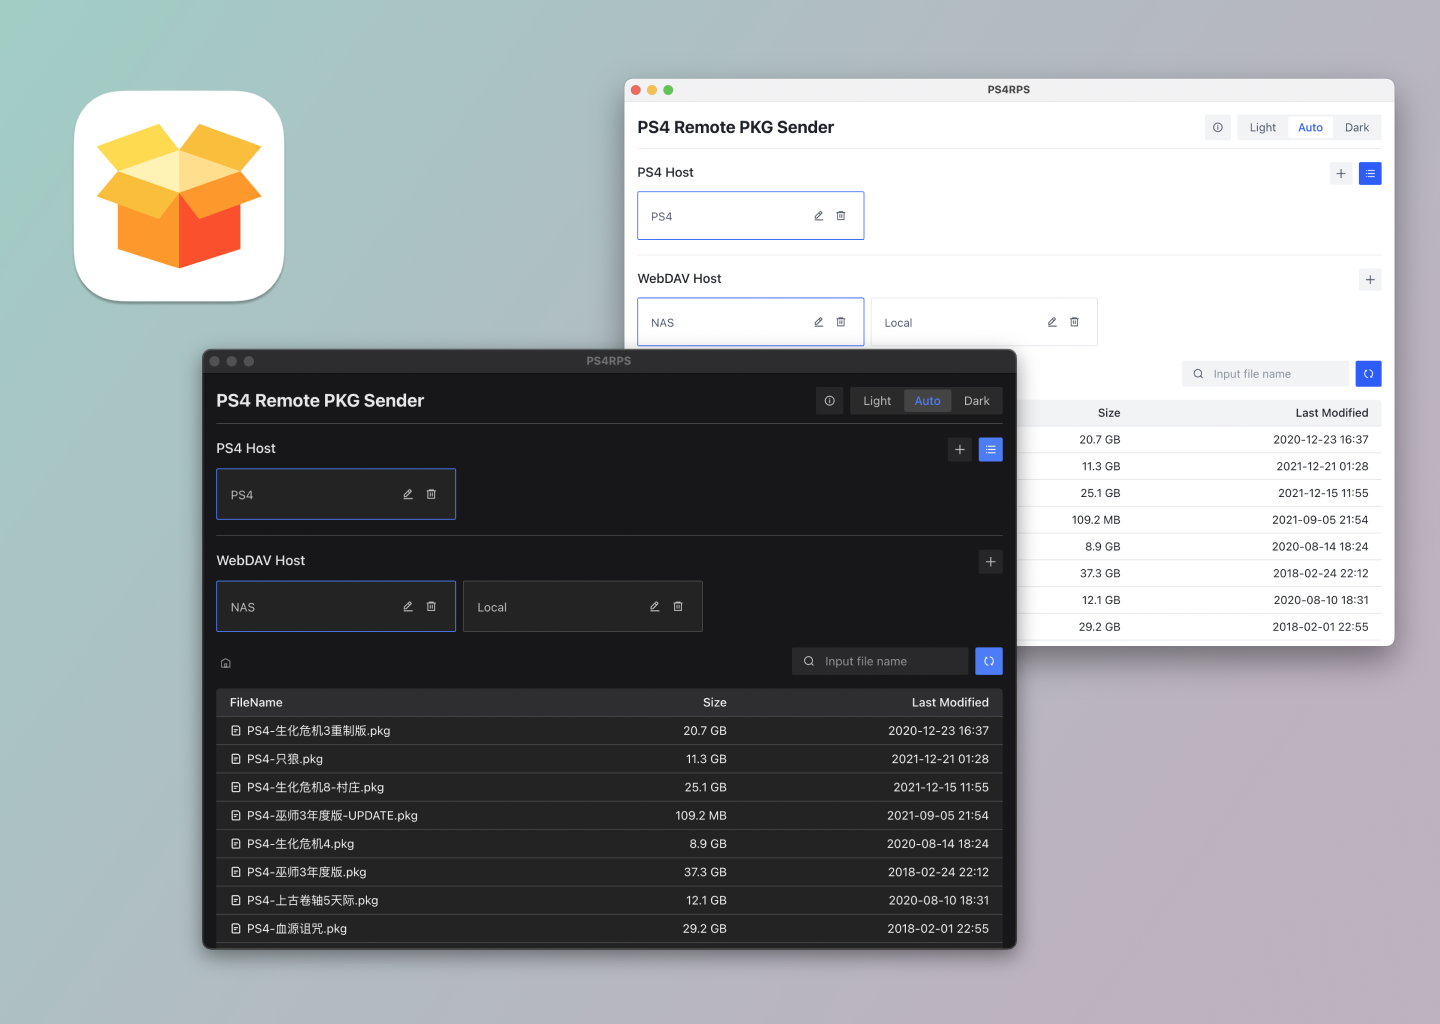
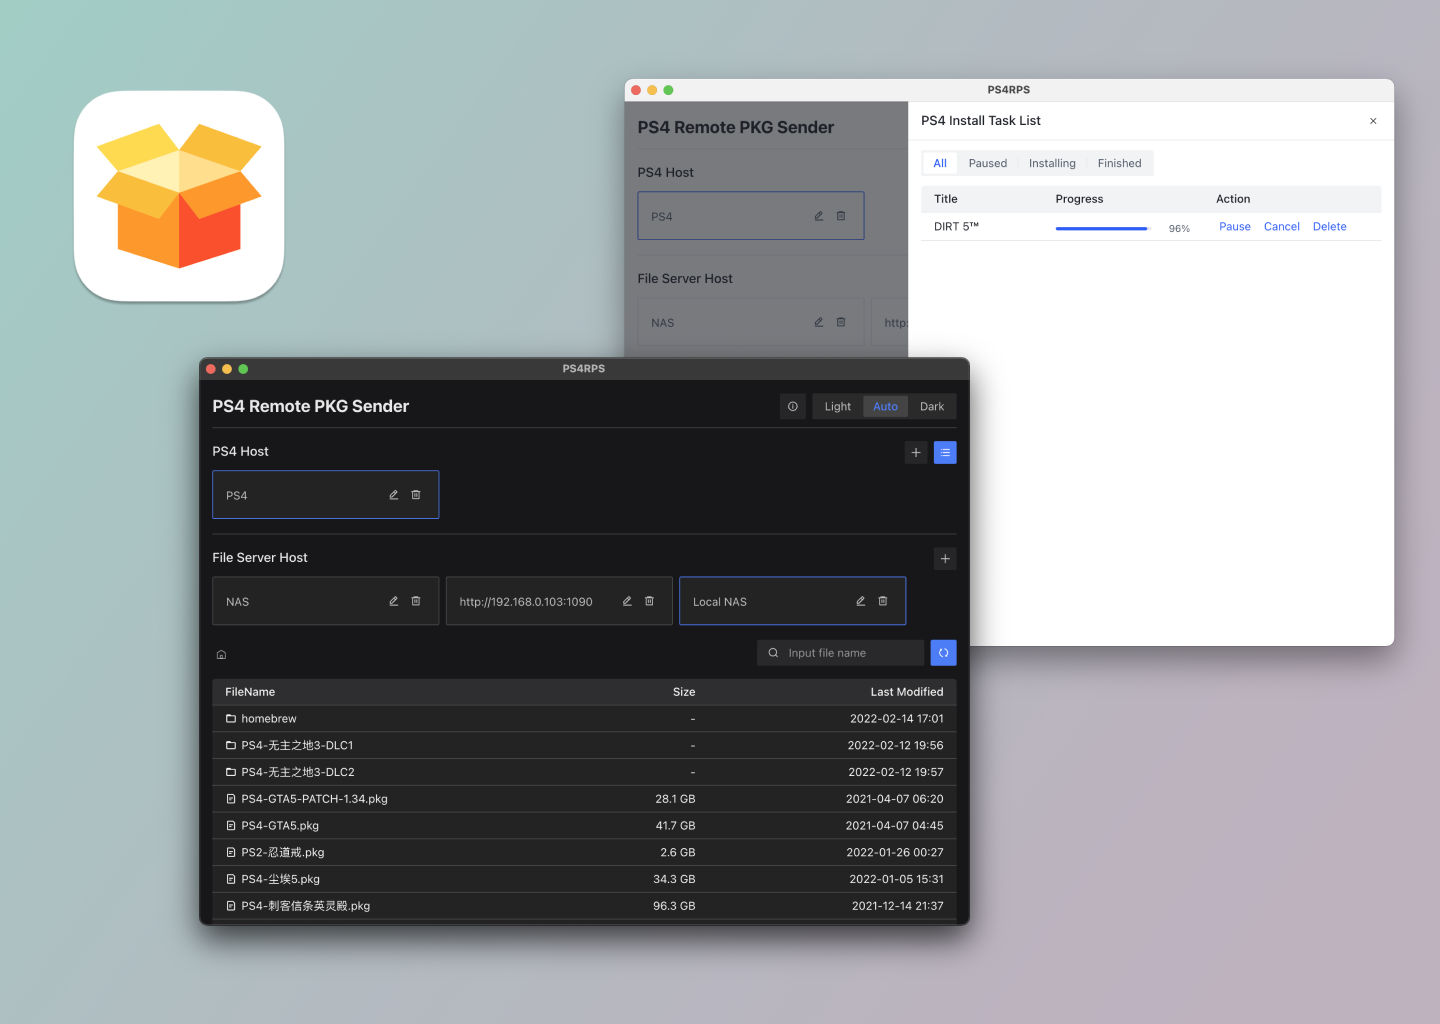
docs: update

diff --git a/README-zh_CN.md b/README-zh_CN.md
@@ -4,11 +4,11 @@
 [![Build/release](https://github.com/njzydark/PS4RPS/actions/workflows/build.yaml/badge.svg)](https://github.com/njzydark/PS4RPS/actions/workflows/build.yaml)
 [![GitHub](https://img.shields.io/github/license/njzydark/PS4RPS)](https://github.com/njzydark/PS4RPS/blob/master/LICENSE)
 
-使用WebDAV为PS4远程安装PKG
+为PS4远程安装PKG
 
 ![PS4RPS.png](assets/PS4RPS.png)
 
-简体中文 | [Englis](./README.md)
+简体中文 | [English](./README.md)
 
 ## 特性
 
@@ -16,17 +16,21 @@
 - 支持暗黑模式
 - 支持暂停和恢复安装任务
 - 支持利用远程的WebDAV服务器进行安装
-- 支持从本地文件夹创建WebDAV服务器
-- 支持多个PS4 Host和WebDAV Host配置
+- 支持从本地文件夹创建静态文件服务器
+- 支持多个PS4 Host和文件服务器配置
+
+## 动机
+
+此类工具其实挺多的，我试用了一款觉得UI比较粗糙且不能安装我NAS上的PKG文件，所以我就准备自己开发一款，也正好为这个社区贡献一份自己的力量，多一种选择也不算坏事。
 
 ## 使用
 
 1. 从此页面下载需要的安装程序 [release page](https://github.com/njzydark/PS4RPS/releases)
 2. 打开下载好的安装程序
 3. 添加PS4 Host配置，这里需要填写完整的url，例如: http://192.168.0.11:12800 端口一般为12800
-4. 添加WebDav Host配置，这里有两种方式
-   - URL: 使用远程的服务器地址，这里需要填写完整的url 如果有用户密码也需要填写上
-   - Directory: 通过本地文件夹创建WebDAV
+4. 添加文件服务器配置，这里有两种方式
+   - WebDAV: 使用远程的服务器地址，这里需要填写完整的url 如果有用户密码也需要填写上
+   - StaticFileServer: 通过本地文件夹创建静态文件服务器
 5. 在文件列表里点击需要的安装的pkg名称即可向PS4发送安装任务，如果发送成功会有相应提示
 
 **注意** 在发送安装任务之前PS4必须安装此PKG [remote pkg installer](https://gist.github.com/flatz/60956f2bf1351a563f625357a45cd9c8) 并打开运行
@@ -51,9 +55,17 @@ pnpm run desktop:dist
 
 1. 是否有Web版本?
 
-  当然有，如果你不需要从本地文件夹创建WebDAV Server而只使用远程的地址，例如NAS环境下，此时确实只需要Web版本即可 但是因为PS4的Remote Pkg Install程序存在CORS的bug [cors bug](https://github.com/flatz/ps4_remote_pkg_installer/issues/10)，所以目前还不能使用
+   当然有，如果你不需要从本地文件夹创建WebDAV Server而只使用远程的地址，例如NAS环境下，此时确实只需要Web版本即可 但是因为PS4的Remote Pkg Install程序存在CORS的bug [cors bug](https://github.com/flatz/ps4_remote_pkg_installer/issues/10)，所以目前还不能使用
 
-2. 为什么arm版本的mac安装程序打开失败?
+2. 传输速度如何?
+
+   WebDAV取决于你WebDAV服务器的速度，StaticFileServer我这里测试基本可以跑满我本地的局域网带宽
+
+3. 为什么支持WebDAV?
+
+   因为可以很方便的安装NAS上的PKG文件
+
+4. 为什么arm版本的mac安装程序打开失败?
 
    因为没有签名，你需要在终端执行一下此命令:
 

diff --git a/README.md b/README.md
@@ -4,7 +4,7 @@
 [![Build/release](https://github.com/njzydark/PS4RPS/actions/workflows/build.yaml/badge.svg)](https://github.com/njzydark/PS4RPS/actions/workflows/build.yaml)
 [![GitHub](https://img.shields.io/github/license/njzydark/PS4RPS)](https://github.com/njzydark/PS4RPS/blob/master/LICENSE)
 
-Use WebDAV as a remote pkg sender for PS4
+Yet another remote pkg sender for PS4
 
 ![PS4RPS.png](assets/PS4RPS.png)
 
@@ -15,18 +15,22 @@ English | [简体中文](./README-zh_CN.md)
 - Support MacOS, Windows and Linux
 - Dark Mode
 - Pause and resume install task
-- Use remote WebDAV Server to send install task
-- Create WebDAV Server from local folder
-- Multiple PS4 host and WebDAV host config
+- Use remote WebDAV server to send install task
+- Create Static file server from local folder
+- Multiple PS4 host and file server host config
+
+## Motivation
+
+There are actually quite a lot of such tools, I tried one and felt that the UI was rough and could not install the PKG file on my NAS, so I am going to develop one myself and contribute to this community, one more choice is not a bad thing.
 
 ## Usage
 
 1. Download this app from [release page](https://github.com/njzydark/PS4RPS/releases)
 2. Open the app
 3. Add PS4 host (Your PS4 ip and port, The port is usually 12800), for example: http://192.168.0.11:12800
-4. Add WebDAV host
-   - Directory: use local folder to create WebDAV Server
-   - URL: use WebDAV Server url and password
+4. Add File server host
+   - StaticFileServer: use local folder to create static file server
+   - WebDAV: use remote WebDAV server url
 5. Click pkg name from file list to send install task
 
 **PS** Before send install task, you need install [remote pkg installer](https://gist.github.com/flatz/60956f2bf1351a563f625357a45cd9c8) on your PS4 and open it
@@ -51,9 +55,17 @@ pnpm run desktop:dist
 
 1. Is there a web version of this tool?
 
-   Of course, if you do not need to create a WebDAV server from local is possible to use the web version directly, but because of this [cors bug](https://github.com/flatz/ps4_remote_pkg_installer/issues/10), the web version is currently not available
+   Of course, if you do not need to create a static file server from local is possible to use the web version directly, but because of this [cors bug](https://github.com/flatz/ps4_remote_pkg_installer/issues/10), the web version is currently not available
 
-2. Why mac arm64 app open failed?
+2. How fast is the transfer?
+
+   WebDAV depends on the speed of your WebDAV server, StaticFileServer I tested here can basically run full my local LAN bandwidth
+
+3. Why support WebDAV?
+
+   Because it is easy to install the pkg file on NAS using webdav
+
+4. Why mac arm64 app open failed?
 
    Because the app is not signed, you need to execute this command in the terminal:
 
